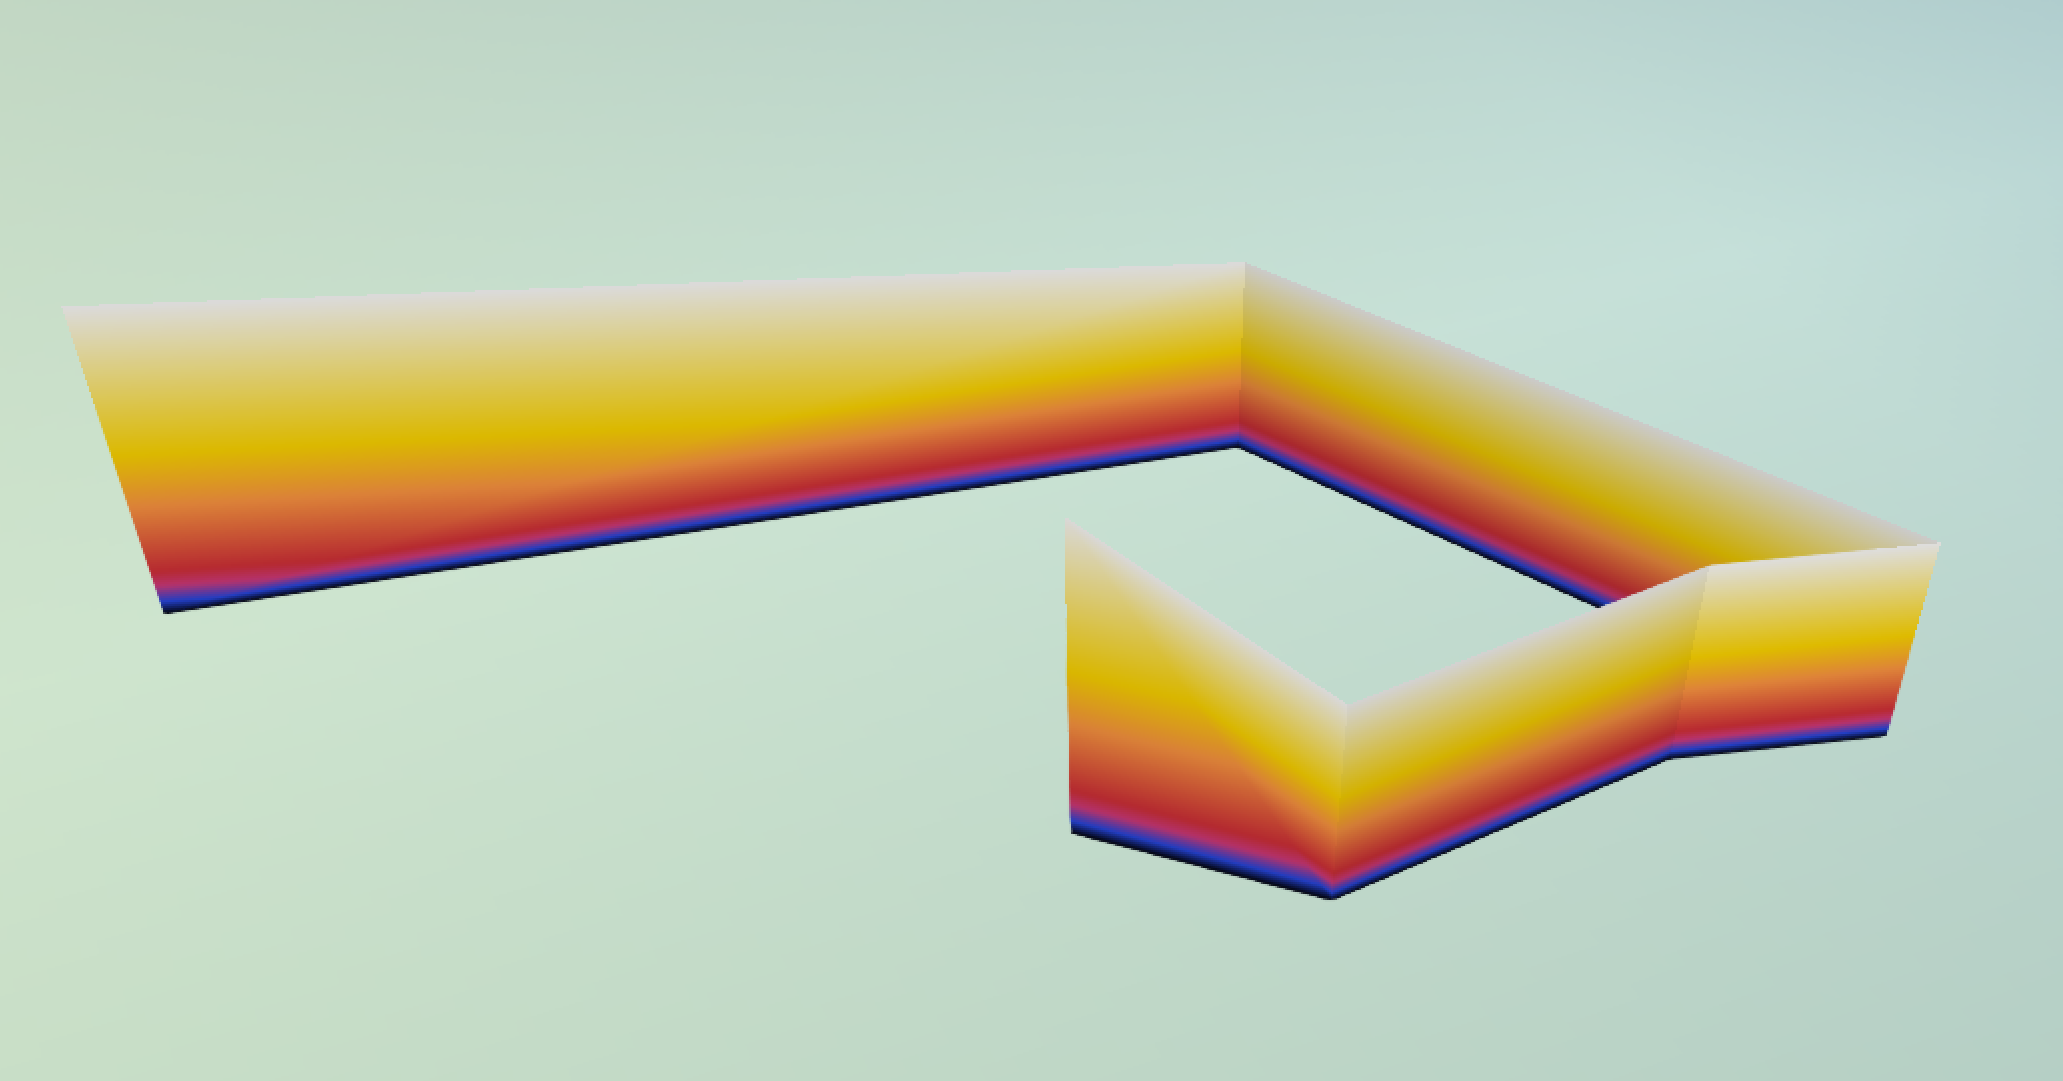
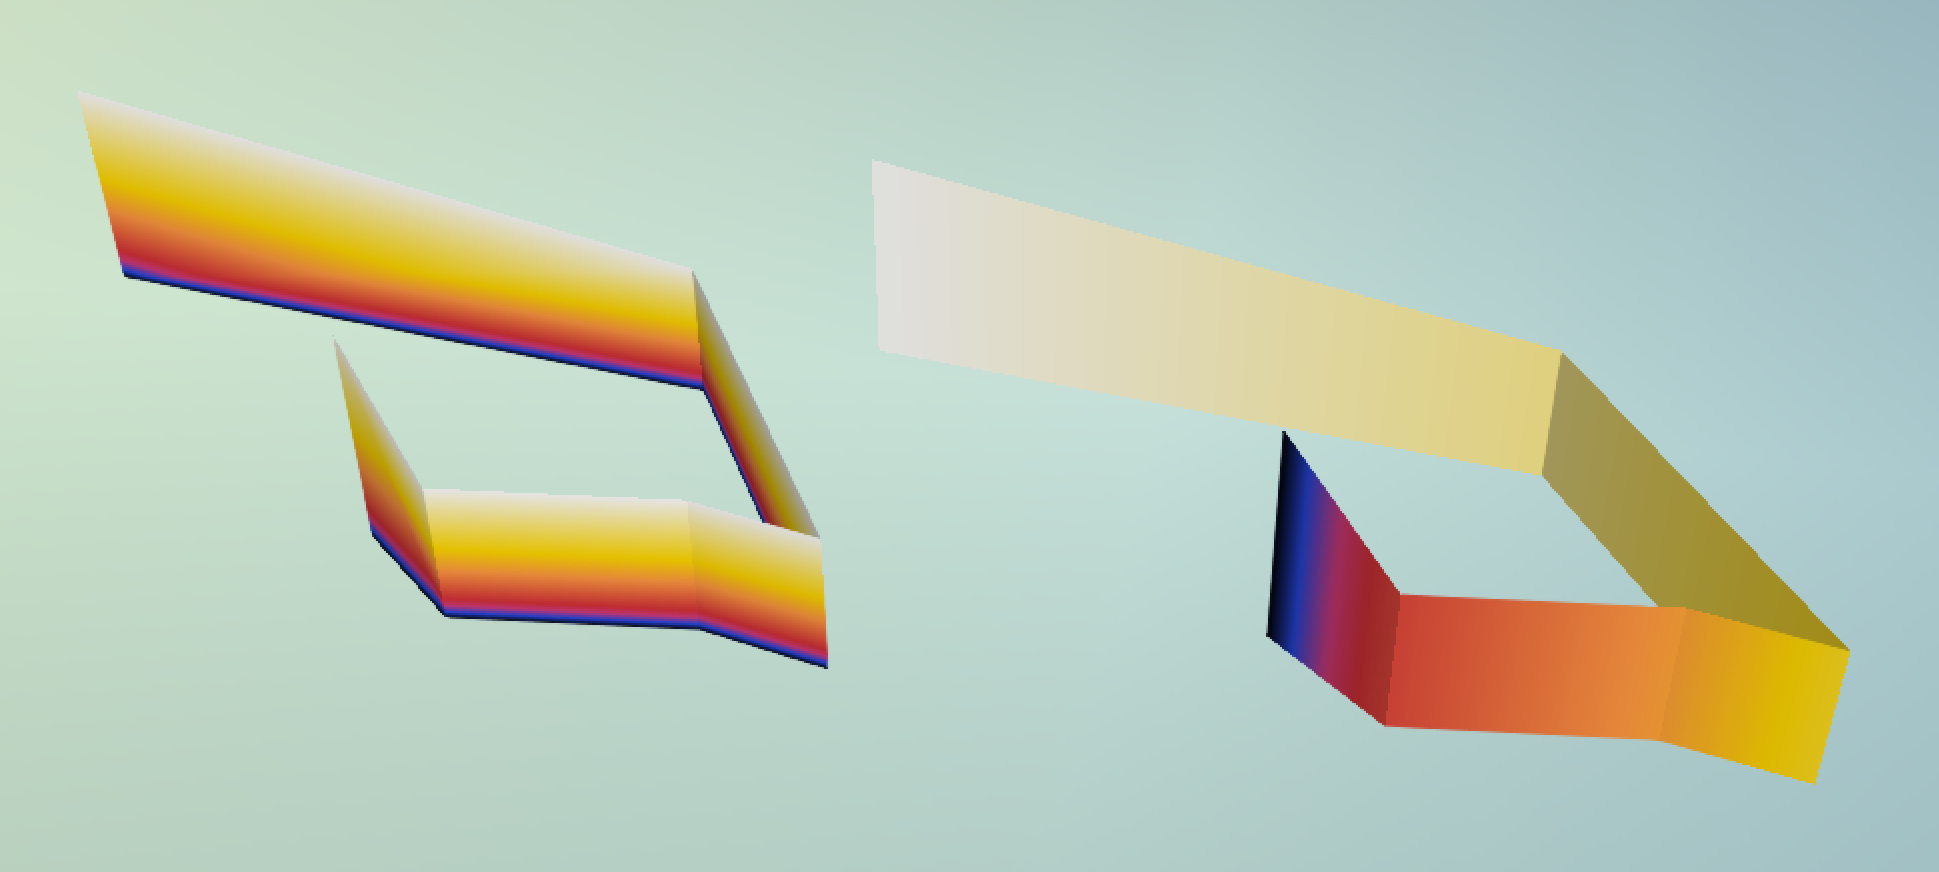
add h & v

diff --git a/lesson09/index.html b/lesson09/index.html
@@ -56,24 +56,37 @@
                     121.502188, 31.203074, 200.0
                 ]),
                 minimumHeights: [3000.0, 2000.0, 2000, 2000, 2000, 3000],
-                material: getColorRamp([0.0, 0.045, 0.1, 0.15, 0.37, 0.54, 1.0])
+                material: getColorRamp([0.0, 0.045, 0.1, 0.15, 0.37, 0.54, 1.0],true)
             }
         });
-        //redWall.material = getColorRamp([0.0, 0.045, 0.1, 0.15, 0.37, 0.54, 1.0]);
-        //redWall.material = Cesium.Color.RED;
 
-
+		viewer.entities.add({
+            name: 'Red wall at height',
+            wall: {
+                positions: Cesium.Cartesian3.fromDegreesArrayHeights([
+                    121.554409, 31.247417, 200.0,
+                    121.643521, 31.235685, 200.0,
+                    121.673273, 31.190347, 200.0,
+                    121.656744, 31.194054, 200.0,
+                    121.626705, 31.191459, 200.0,
+                    121.612188, 31.203074, 200.0
+                ]),
+                minimumHeights: [3000.0, 2000.0, 2000, 2000, 2000, 3000],
+                material: getColorRamp([0.0, 0.045, 0.1, 0.15, 0.37, 0.54, 1.0],false)
+            }
+        });
+		
         viewer.zoomTo(viewer.entities);
 
 
-        function getColorRamp(elevationRamp) {
+        function getColorRamp(elevationRamp,isVertical=true) {
             var ramp = document.createElement('canvas');
-            ramp.width = 1;
-            ramp.height = 100;
+            ramp.width = isVertical?1:100;
+            ramp.height = isVertical?100:1;
             var ctx = ramp.getContext('2d');
 
             var values = elevationRamp;
-            var grd = ctx.createLinearGradient(0, 0, 0, 100);
+            var grd = isVertical?ctx.createLinearGradient(0, 0, 0, 100):ctx.createLinearGradient(0, 0, 100, 0);
             grd.addColorStop(values[0], '#000000'); //black
             grd.addColorStop(values[1], '#2747E0'); //blue
             grd.addColorStop(values[2], '#D33B7D'); //pink
@@ -83,8 +96,10 @@
             grd.addColorStop(values[6], '#ffffff'); //white
 
             ctx.fillStyle = grd;
-            ctx.fillRect(0, 0, 1, 100);
-
+			if(isVertical)
+				ctx.fillRect(0, 0, 1, 100);
+			else
+				ctx.fillRect(0, 0, 100, 1);
             return ramp;
         }
     </script>
